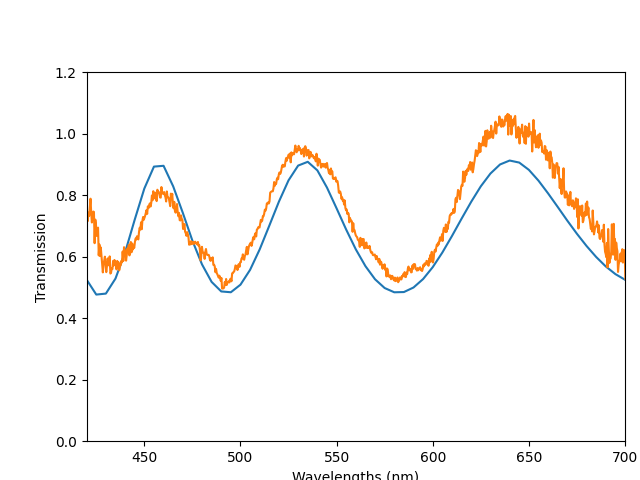
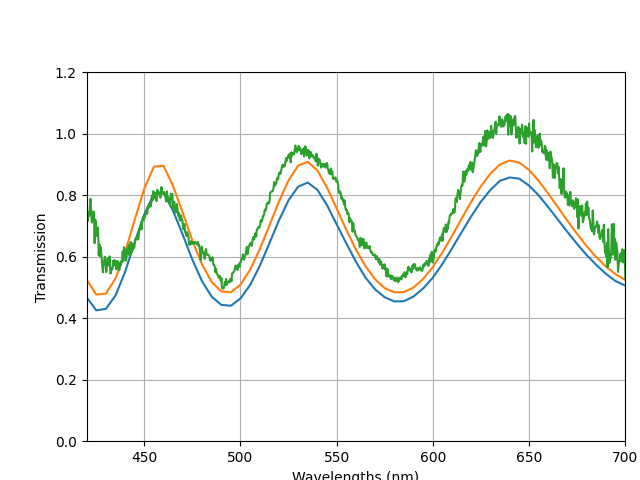
tidy code

diff --git a/functions.py b/functions.py
@@ -133,61 +133,30 @@ def calculate_orders(input, output, DMD):
 
     return order_angles_mx, order_angles_my
 
-
-def gaussian2D_normalized(x, x0, y, y0, sigma):
-
-    value = np.exp(-0.5*((x-x0)**2+(y-y0)**2)/sigma**2)/(np.pi*sigma*np.sqrt(2))
-    return value
-
-def DMD_aperture_diffraction_pattern(x,x0,y,y0,DMD,input):
-    #this is practically a delta function
-    value=np.sinc(DMD.width*(x-x0)/input.wavelength)*np.sinc(DMD.height*(y-y0)/input.wavelength)
-    return value
-
-
 def grating_function(input, output, dmd):
-
-    # this function gives the diffraction pattern due to the DMD periodicity
-    # this function puts a guassian function (FT of a the assumed gaussian spot on the DMD) wherever there is an order
-    # equivalent to FT of beam convoluted with the 2D array of delta functions
-    # TODO - could include mask here? better way to do convolution?
 
     [order_angles_mx, order_angles_my] = calculate_orders(input, output, dmd)
     data = np.zeros((output.datapoint, output.datapoint))
 
-    # we assume that the effective beam size depends on the input lens NA - given by minimum beam waist of focused gaussian beam.
-    # TODO - SOMETHING IS WRONG HERE???????? should we be using the PSF instead?
-    # gaussian beam has E(r,z)~exp(-r^2/w(z)^2), minimum waist radius for a lens given by w0=lambda/NA*pi, about 4 micron for our prototype at 600nm - too small!
-    effective_beam_waist=input.wavelength/(np.pi*np.arcsin(input.lens_NA)) #diff limited
-    effective_beam_waist=15*um # approx PSF for one half of system - make as function of lambda? take from simulator
-    #FT of beam profile E(r,z) = exp((k^2*w0^2)/4), where we approximate k as 2*pi*x/z*lambda=2*pi*sin(angle)/lambda=2*pi*angle/lambda
-    factor=1 #dodgy factor
-    sigma = input.wavelength/(np.sqrt(2)*effective_beam_waist*np.pi*factor) #for intensity profile
-    #parax approx tan(x)=sin(x)=x
-
     for angle_mx in order_angles_mx:
         for angle_my in order_angles_my:
-            #place gaussian at each order location
-            #data = data+gaussian2D_normalized(output.angle_x_array_meshed,angle_mx, output.angle_y_array_meshed, angle_my, sigma)# for gaussian beam and infinite DMD
-            data=data+MTF_function(2*np.pi*np.sin(np.sqrt((output.angle_x_array_meshed-angle_mx)**2+(output.angle_y_array_meshed-angle_my)**2))/input.wavelength) # FT of PSF is MTF **2 or not doesnt make much difference
-            #data = data + DMD_aperture_diffraction_pattern(output.angle_x_array_meshed,angle_mx, output.angle_y_array_meshed, angle_my, dmd, input)
-
+            #The fourier transform of the MTF of the lens gives the point spread function (PSF) on the DMD (fopr ideal lens?)
+            #The diffraction orders are convoluted with the FT of the 'aperture'  to give the diffraction pattern
+            #Therefore the diffraction due to the spot on the DMD is the fourier transform of the PSF = the MTF, where k=2*pi*sin(angle)/wavelength
+            data=data+MTF_function(2*np.pi*np.sin(np.sqrt((output.angle_x_array_meshed-angle_mx)**2+(output.angle_y_array_meshed-angle_my)**2))/input.wavelength)
+            #not sure about whether MTF needs to be squared? As there are two lenses in the system before the DMD
+            #the influence of the DMD extent is negligible - but how to include the masks pattern?
     return data
 
 def MTF_function(spatial_frequency):
 
-    #TODO - add selection for different lenses?
+    #TODO - add selection for different lenses? As function of wavelength?
     experimental_data = pd.read_excel(r'TL200-MTF.xlsx')
     spatial_frequency_data= experimental_data.loc[:, 'Spatial Frequency'].to_numpy()
     MTF_data = experimental_data.loc[:, 'MTF'].to_numpy()
     spatial_frequency_data=spatial_frequency_data/mm
     MTF=np.interp(spatial_frequency,spatial_frequency_data,MTF_data)
 
-    # k=spatial_frequency
-    # k_max=200/mm
-    # MTF=1-k/k_max#approx triangle function
-    # ids=MTF<0
-    # MTF[ids]=0
     return MTF
 
 def calculate_diffraction_pattern_image(input, output, dmd):
@@ -199,7 +168,7 @@ def calculate_diffraction_pattern_image(input, output, dmd):
     diffraction_image = E2_grating * E2_envelope
 
     #calculate total power collected by lens
-    spatial_frequencies = np.sin(output.effective_angle_of_vector)/input.wavelength # check this
+    spatial_frequencies = np.sin(output.effective_angle_of_vector)/input.wavelength #check this
 
     #image_collected = diffraction_image * output.collected_vectors
     image_collected_MTF = diffraction_image * MTF_function(spatial_frequencies)

diff --git a/main.py b/main.py
@@ -75,9 +75,16 @@ experimental_data=pd.read_excel(r'experimental.xlsx')
 wavelengths_experimental=experimental_data.loc[:,'Wavelength'].to_numpy()
 transmission_experimental=experimental_data.loc[:,'Transmission'].to_numpy()
 
+experimental_data = pd.read_excel(r'TL200-transmission.xlsx')
+wavelengths_lens = experimental_data.loc[:, 'Wavelength'].to_numpy()
+transmission_lens= experimental_data.loc[:, 'Transmission'].to_numpy()/100
+transmission_lens=np.interp(wavelengths/nm,wavelengths_lens,transmission_lens)
+
 plt.clf()
-plt.plot(wavelengths/nm,transmission_collected) # normalized by maximum for now
+plt.plot(wavelengths/nm,transmission_collected*transmission_lens**2)
+plt.plot(wavelengths/nm,transmission_collected)
 plt.plot(wavelengths_experimental,transmission_experimental)
+plt.grid()
 plt.ylim((0,1.2))
 plt.xlim((420,700))
 plt.xlabel('Wavelengths (nm)')
